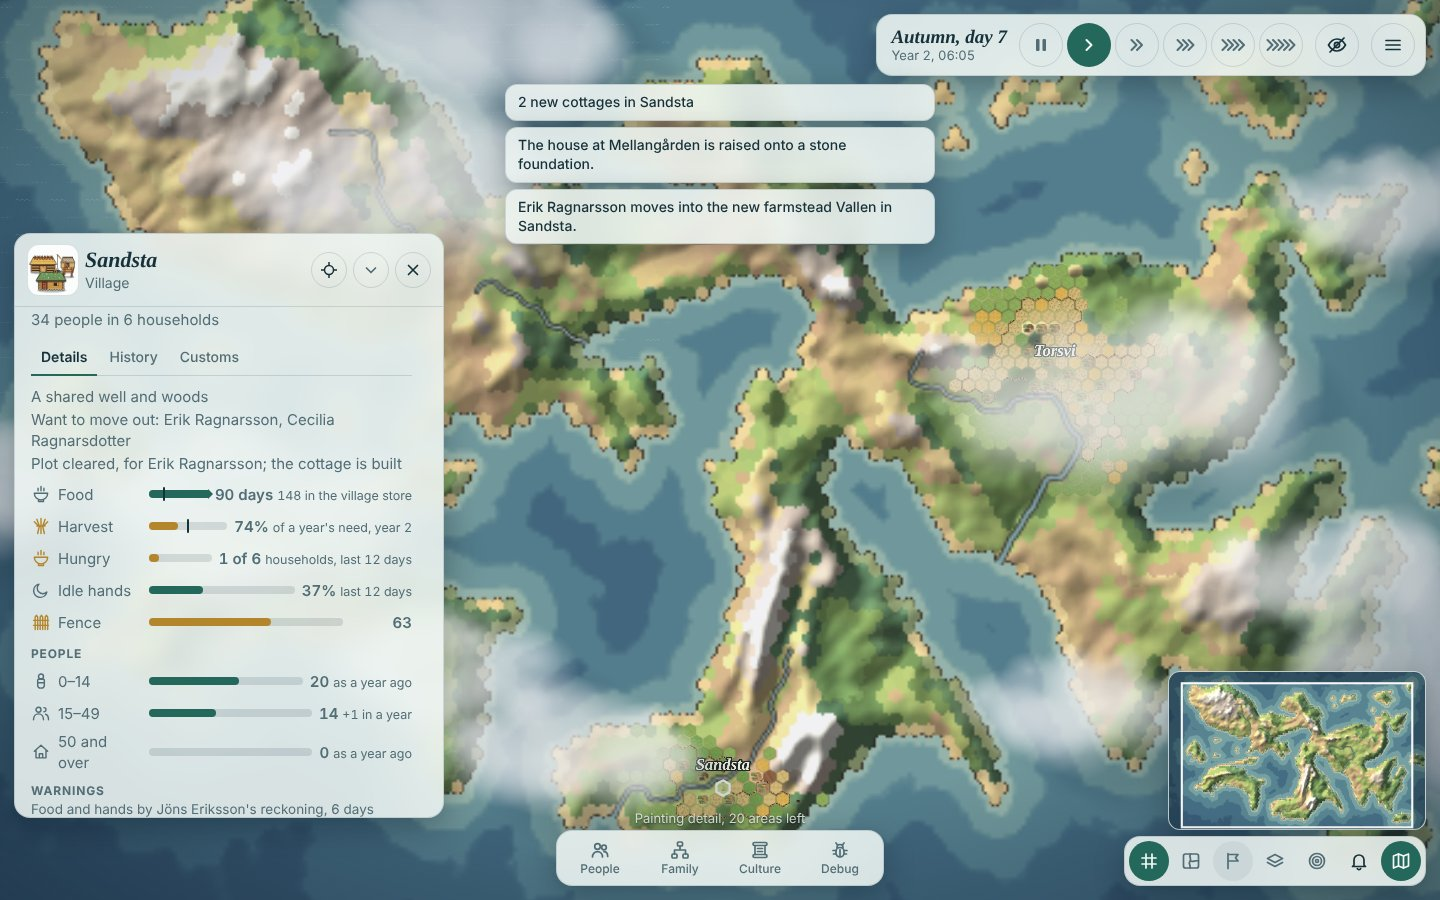
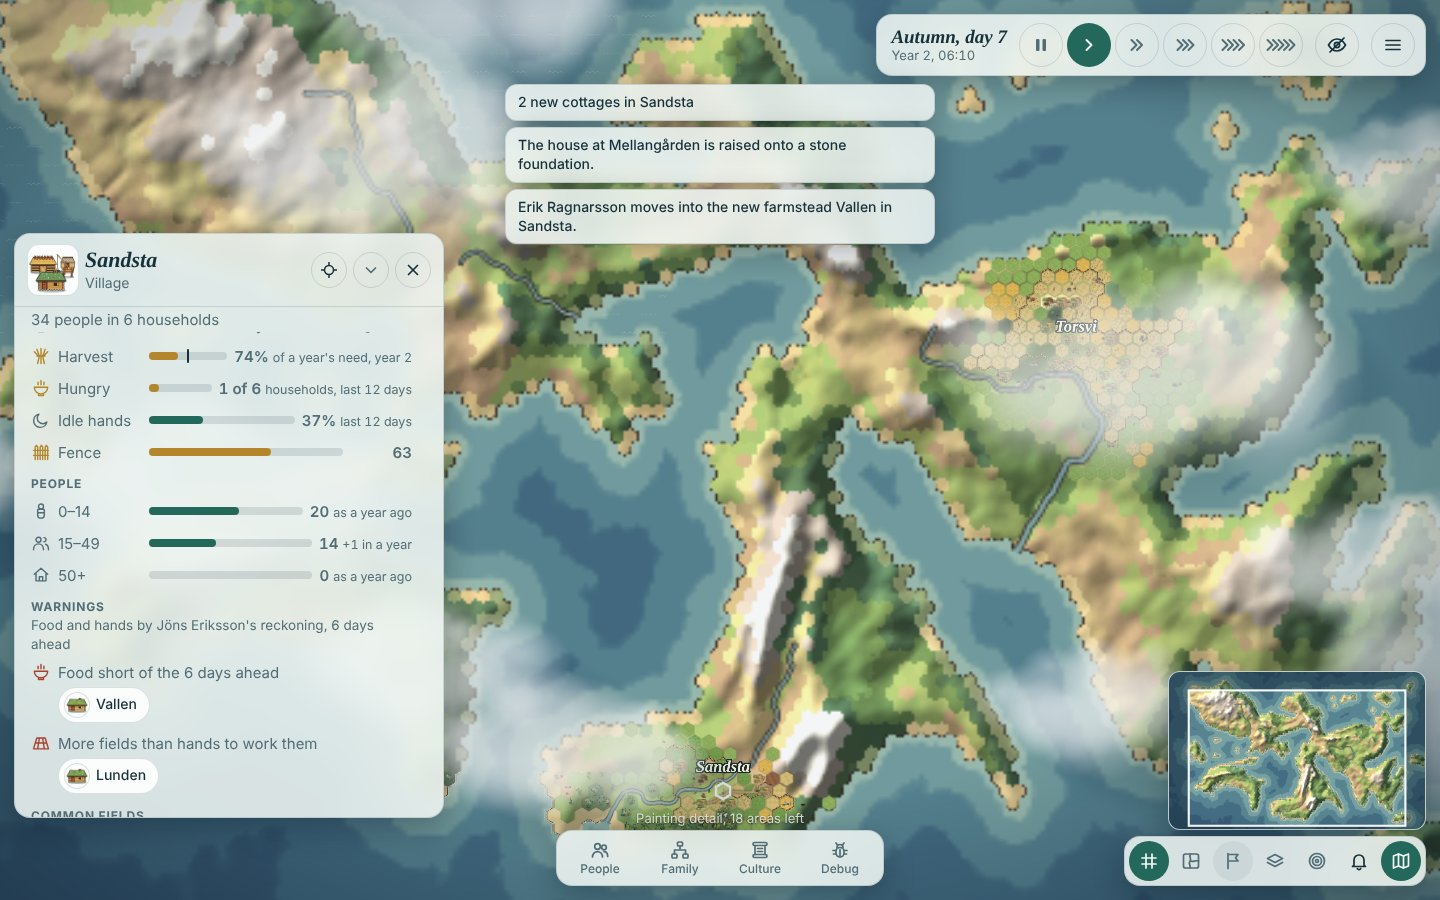
VB-162: notes, modules.md, screenshot

diff --git a/backlog/VB-162.md b/backlog/VB-162.md
@@ -8,11 +8,11 @@ Design ref: The player, commands and views; Systems overview. External review of
 Goal: To see why a village struggles, the player now opens household after household. One panel per village shows its state at a glance and warns of trouble ahead, from numbers the simulation already keeps.
 Decided (Kim, 10 November; `QUESTION_ARCHIVE.md`, "VB-162 and VB-165"): what the overview shows, as in the criteria.
 Acceptance criteria:
-- [ ] Selecting a village (its label, or a key from VB-165) opens a Village panel with: food in store and its days of need, this year's harvest against a year's need, people by age band (0–14, 15–49, 50+) and the change since a year ago, households hungry on any day in the last 30, and the share of adult work hours idle over the last 30 days.
-- [ ] Warnings, each with the households it concerns (clicking one selects it): food in store short of the days to the next harvest; a household hungry 5 of the last 30 days; a holder over 60 with no heir in the household; a farm with fewer working adults than its fields need.
-- [ ] The numbers come from one function in the simulation (`villageSummary(st, v)`), so `tools/sim.js --report villages` prints the same numbers; a test checks the function against a hand count on a tiny world.
-- [ ] The page only reads `st` (lint); the panel costs under 1 ms to build at populous medium.
-- [ ] Behaviour unchanged: `node tools/same.js --base REF` prints `same`.
+- [x] Selecting a village (its label, or a key from VB-165) opens a Village panel with: food in store and its days of need, this year's harvest against a year's need, people by age band (0–14, 15–49, 50+) and the change since a year ago, households hungry on any day in the last 30, and the share of adult work hours idle over the last 30 days.
+- [x] Warnings, each with the households it concerns (clicking one selects it): food in store short of the days to the next harvest; a household hungry 5 of the last 30 days; a holder over 60 with no heir in the household; a farm with fewer working adults than its fields need.
+- [x] The numbers come from one function in the simulation (`villageSummary(st, v)`), so `tools/sim.js --report villages` prints the same numbers; a test checks the function against a hand count on a tiny world.
+- [ ] The page only reads `st` (lint); the panel costs under 1 ms to build at populous medium. (The lint passes. The time is not taken on a quiet machine: on tonight's shared one, `Sim.villageSummary` at populous medium seed 7, day 30 (830 living, 19 villages) took a mean of 0.90 and 1.14 ms a village in two runs, a description, not a result; owed to VB-662 by VB-926.)
+- [x] Behaviour unchanged: `node tools/same.js --base REF` prints `same`.
 - 3 Nov 2026 (`docs/slices.md`, section 3.3; the slices Decided by Kim): moved to slice 3, arch `year`. `blocked` until the slice's plan (VB-164) confirms, rewrites or closes it; its questions in `QUESTIONS.md` wait for that plan, which may reframe them.
 - 10 Nov 2026 (VB-164, slice 3's plan; Kim's answers of the day): confirmed, beside the plan panel (VB-256), whose page code it shares; waits for it and for Kim on question 3 of `QUESTIONS.md`, "VB-162, VB-163 and VB-165". Its idle share is reported with no target (Kim, 10 November).
 - 10 Nov 2026 (Kim, in the session): its question answered as proposed (`QUESTION_ARCHIVE.md`, "VB-162 and VB-165"); no longer waits for Kim.
@@ -20,3 +20,38 @@ Notes:
 - 11 Nov 2026 (backlog curation): a village card exists (`showVillage`, `src/page/cards.js`: people and households, fence, founding, farms, customs), opened by selecting a village, and the Village panel of the first criterion extends that card; the design ref points at v0.4's section 15.
 - 15 Nov 2026 (review of the open tasks against the head's day, VB-466, and the blocks plan, VB-469, `docs/review-blocks.md`): by principle 14 (`AGENTS.md`: the future is someone's estimate) the two warnings that foretell (food short of the days to the next harvest; fewer working adults than the fields need) show the estimate of the pawn the player inhabits, and say so; the counted facts (people, hungry days, idle share) stay exact. `villageSummary` takes the viewer.
 - 16 Nov 2026 (the second consistency check, after VB-664; populous tiny seed 7, year 2, 1440 by 900): the village's card lags the farm's. Its Details is lines of words (the common fields' stage, who wants to move out, the plots, the village's work as one sentence), where the farm's card shows fields as tiles and work with its icons; the village store is not shown at all. This task builds the overview on the shared pieces (`src/page/meter.js`; `AGENTS.md`, Deciding without Kim, 15): the village store as a supply (VB-667's cells, against its target: VB-457), its common fields and its work as the farm's Land tab shows a farm's, people by age band and food against need as graphs, and each warning as a chip on the farm's row it concerns (VB-667's chips). Read VB-667 and VB-668 when it is taken.
+- 16 Nov 2026 (VB-162, implemented). `Sim.villageSummary(st, v, viewer)` in a new derived module, `src/sim/overview.js` (read-only, stored
+  nowhere; layer `derived`, after `sim/opportunities`): food in store (each household's grain less its seed, flour, larder, fresh food,
+  meals and sheaves in the barn, and the village store less its seed) and its days of the village's need; the latest harvest (the
+  households' sheaves and the village's grain from the ledgers) against a year's need; people by band 0-14, 15-49, 50+, now and a year
+  ago; households in which someone ate short on any day of the window; the share of the hands' work hours not at a task (from
+  `household.workHours`, sim/agents' count); and the four warnings, each the households it concerns. `tools/sim.js --report villages`
+  prints the same numbers as columns; `tests/overview.js` checks each against a hand count on the probe's village (ages, stores,
+  hunger logs, work hours and ledgers set by hand), and that the summary writes nothing. The village card (`src/page/cards.js`) shows
+  them as stats on the one meter (food marked at the harvest, harvest at a year's need), people by band as three meters with the change
+  in a year, the warnings with their farms as chips (a chip selects the farm) and the warned farms' rows marked by the warning's icon;
+  its common fields and its work are shown as a farm's Land tab shows a farm's (`workStats`, now shared by both). `tests/smoke.js`
+  makes a household hungry and checks the stats, the chip, the row's mark and that the chip selects the farm.
+  Decisions (Deciding without Kim; noted in the inbox):
+  - The criteria's "last 30 days" is read as the last 12 days, a season (HUNGER.days, what a pawn's hunger log holds; the game's year
+    is 48 days), and "hungry 5 of the last 30 days" as 2 of the 12, the same share (`OVERVIEW` in sim/overview). No new state.
+  - "This year's harvest" is the latest harvest: this calendar year's from autumn, when it comes in, last year's before (in spring
+    this year's would always read 0).
+  - Whose estimate (principle 14): the played pawn's; with none (tools, a watched game), the village's eldest living holder's. The
+    estimate is the pawn's foresight as sim/plans reckons a head's (`horizonOf` its skill): a pawn that reacts looks a day ahead, one
+    with a horizon of one season to the season's end, two a season further, never past the next harvest; and the fields a hand can
+    till by its own household's plan (`targets.perHand`, its head's bias), FIELDS.perHand without one. The card says whose reckoning
+    and how many days ahead.
+  - People a year ago are those then alive whose household (the last, for the dead) is of the village: who moved in during the year
+    counts as of it then. It walks every pawn record when the card is drawn (never in a step; a work counter, `overviewWalk`).
+  - "Over 60" is 60 and on; an heir "in the household" is one of `heirRanking`'s, alive and a member.
+  - VB-667's supply cells and chips are not built (it is blocked): the village store is a stat beside the food, and a warned farm's
+    row carries the warning's icon; VB-927 makes them VB-667's when it lands.
+  Numbers: behaviour unchanged, `node tools/same.js --base 0d2a9ed` prints `same` (founders, heirs, seeds 7 and 42, tiny, 2 years).
+  `tools/sim.js --scenario founders --seed 7 --map small --years 2 --report villages`: Asklunda 9 people, 214 days of food, harvest of
+  year 2 488% of a year's need, idle 53%, no warning; Vallen 3 people, 212 days, 1 household hungry, warned of food and hunger (5) and
+  hands (3), by pawn 6's reckoning, 12 days ahead. Populous tiny seed 7, year 2 autumn: Sandsta 34 people, 90 days of food, harvest
+  74%, 1 of 6 households hungry, idle 37%, warned of food (Vallen, a household just moved in) and hands (Lunden). Cost: `overviewWalk`
+  is the pawns ever (835 a call at populous medium, day 30); `heirRanking` is called only for holders 60 and over; the simulation
+  never calls it, so no counter of a run moves. Screenshot: `docs/img/vb162-village-overview.jpg`.
+

diff --git a/docs/architecture/modules.md b/docs/architecture/modules.md
@@ -204,7 +204,7 @@ free, influence goes upward by a command, an event or a hook. Composition roots 
   `sim/farmclaims`, `sim/service`, `sim/matching` (marriage rules), `sim/occasions` (gatherings), `sim/workdays` (the village's work days,
   a routine of its meeting: the fence closed in spring, the commons cleared in summer, who turned out and who stayed away, VB-120).
 - Agency: `sim/agents`, `sim/trust` (farms held in trust by kin, VB-309), `sim/jobs`, `sim/kinds`, `sim/exchange`, `sim/help`, `sim/lifecycle`, `sim/eligibility`, `sim/plans`.
-- Derived views: `sim/notable`, `sim/opportunities` (read-only, computed when asked).
+- Derived views: `sim/notable`, `sim/opportunities`, `sim/overview` (a village at a glance, `Sim.villageSummary`, VB-162) (read-only, computed when asked).
 
 ## Adding things
 - A module has no cap on its length (VB-413): over 700 formatted lines (`src/` is formatted by Prettier, `npm run format`) the lint asks for an open task titled "Refactor: split <key> ...", opened by the task that
